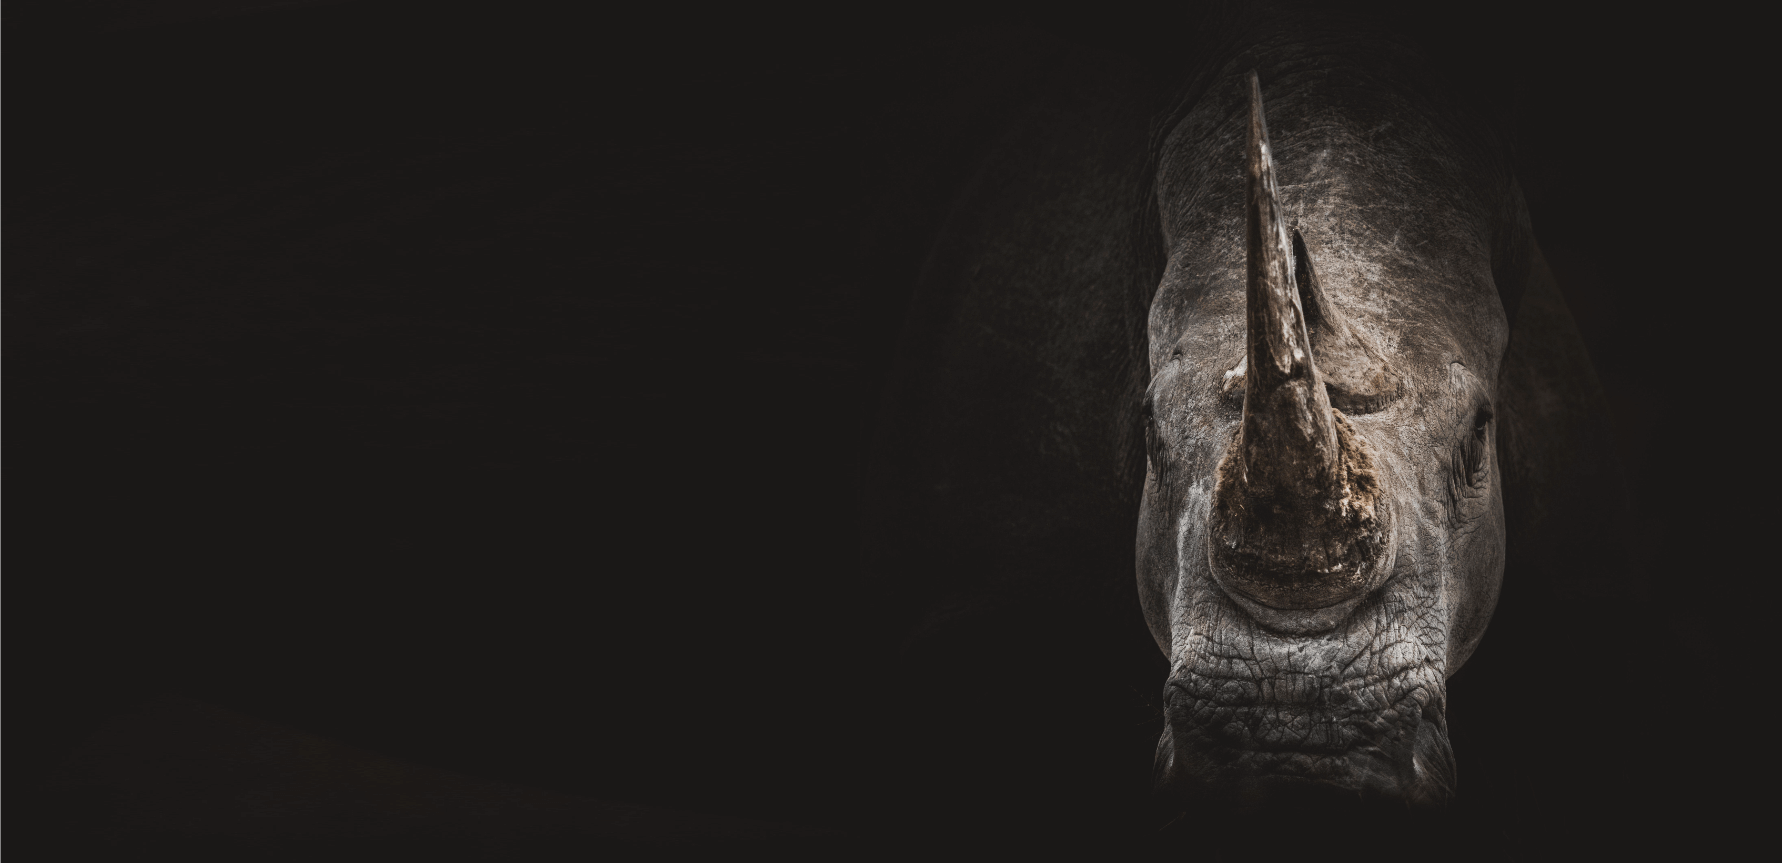
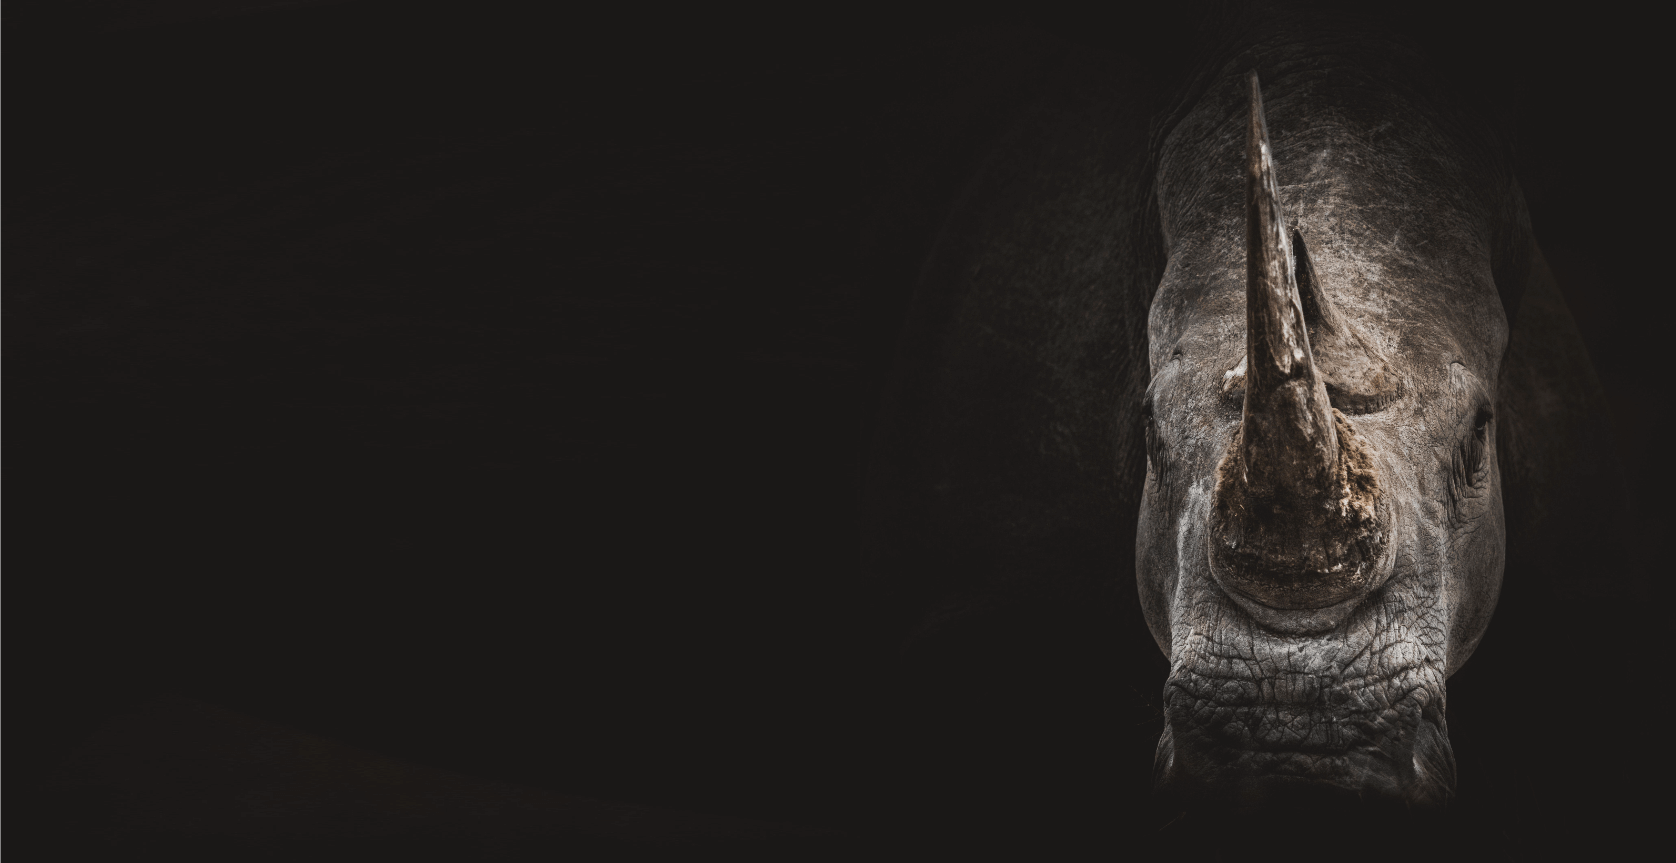
Resize bg image

Changed region(s): [[0.6205, 0.0904, 0.8998, 0.9038]]

diff --git a/styles/main.css b/styles/main.css
@@ -108,7 +108,7 @@ nav {
 
 .main__bg {
   background: url('../images/rhino.png') no-repeat;
-  background-position: right bottom;
+  background-position: right top;
   background-attachment: fixed;
   background-size: cover;
 }
